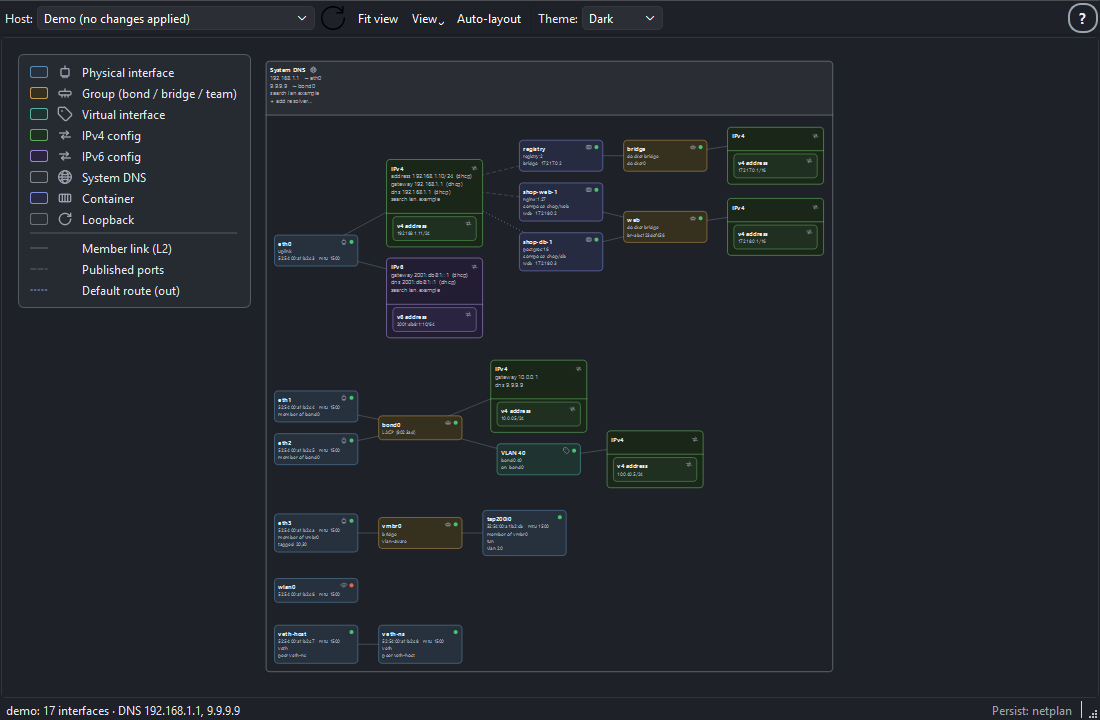
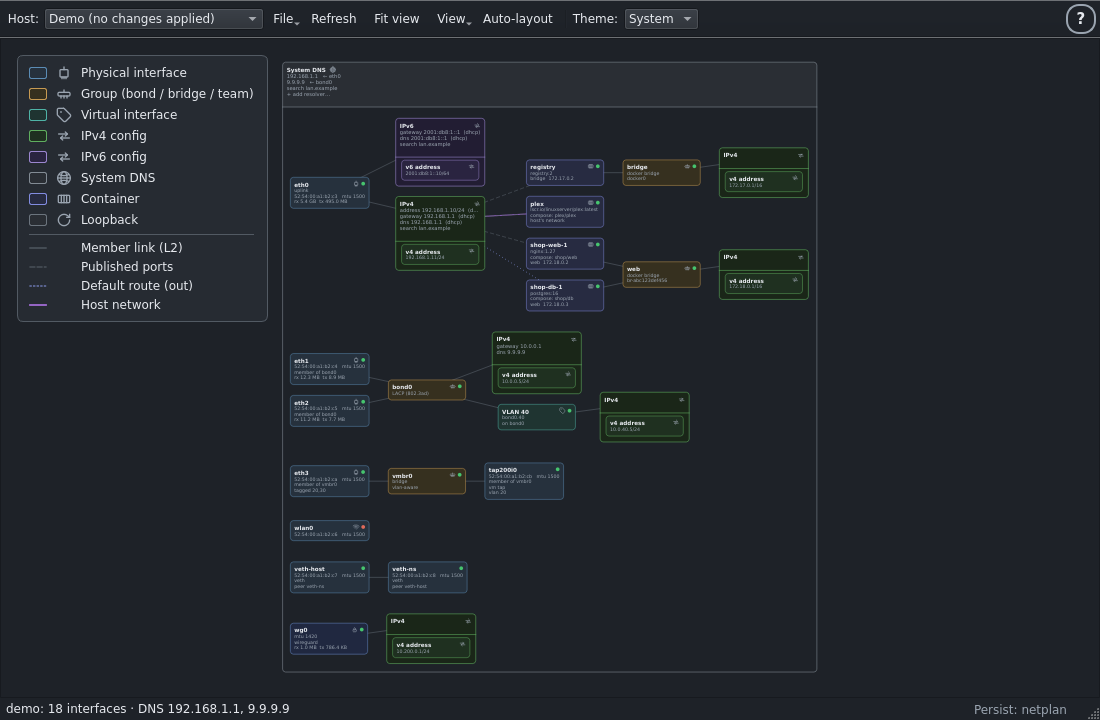
Release 0.5.0: WireGuard interface display + live RX/TX throughput
Cuts the 0.5.0 milestone: recognises/draws WireGuard interfaces and shows
live RX/TX byte counters on every interface box, plus the host-network
container, vm-tap label and empty-docker-bridge fixes that were pending.

- bump version to 0.5.0 (src/netgrip/__init__.py, pyproject.toml, README badge)
- move CHANGELOG [Unreleased] under [0.5.0] and add the two new entries
- add AppStream <release> 0.5.0 entry to the metainfo
- refresh demo screenshots (light + dark) showing the wg node and RX/TX

diff --git a/src/netgrip/__init__.py b/src/netgrip/__init__.py
@@ -1,3 +1,3 @@
 """NetGrip: visual, drag-and-drop network interface manager for Linux."""
 
-__version__ = "0.4.2"
+__version__ = "0.5.0"

diff --git a/CHANGELOG.md b/CHANGELOG.md
@@ -6,8 +6,16 @@ adheres to [Semantic Versioning](https://semver.org/).
 
 ## [Unreleased]
 
+## [0.5.0] - 2026-06-27
+
 ### Added
 
+- **WireGuard interfaces**: WireGuard tunnel interfaces (kernel link kind
+  `wireguard`) are now recognised and drawn as virtual interfaces with their own
+  glyph, so a `wg0` appears on the canvas like any other link. (Display only —
+  peers and endpoints aren't shown yet.)
+- **Live interface throughput**: each interface box now shows live RX/TX byte
+  counters, read unprivileged from `ip -s -j link show`.
 - **Host-network containers**: containers running with `network_mode: host`
   (e.g. Plex) now show "host's network" in their box and connect to the host's
   uplink IPv4 group with a solid purple line — distinct from the grey member
@@ -233,7 +241,8 @@ First release.
   invalid input is reported inline (no stacked dialogs)
 - Demo mode (`netgrip --demo`)
 
-[Unreleased]: https://github.com/theyoungrossco/netgrip/compare/v0.4.2...HEAD
+[Unreleased]: https://github.com/theyoungrossco/netgrip/compare/v0.5.0...HEAD
+[0.5.0]: https://github.com/theyoungrossco/netgrip/compare/v0.4.2...v0.5.0
 [0.4.2]: https://github.com/theyoungrossco/netgrip/compare/v0.4.1...v0.4.2
 [0.4.1]: https://github.com/theyoungrossco/netgrip/compare/v0.4.0...v0.4.1
 [0.4.0]: https://github.com/theyoungrossco/netgrip/compare/v0.3.0...v0.4.0

diff --git a/README.md b/README.md
@@ -7,7 +7,7 @@
 **Visual, drag-and-drop network interface management for Linux.**
 
 [![License: GPL-3.0-or-later](https://img.shields.io/badge/License-GPL--3.0--or--later-blue.svg)](LICENSE)
-[![Version](https://img.shields.io/badge/version-0.4.0-informational.svg)](CHANGELOG.md)
+[![Version](https://img.shields.io/badge/version-0.5.0-informational.svg)](CHANGELOG.md)
 [![Python](https://img.shields.io/badge/python-%E2%89%A5%203.10-blue.svg)](pyproject.toml)
 [![Platform](https://img.shields.io/badge/platform-Linux%20%7C%20Windows%20(SSH)-lightgrey.svg)](#installing)
 [![Status: alpha](https://img.shields.io/badge/status-alpha-orange.svg)](#status)